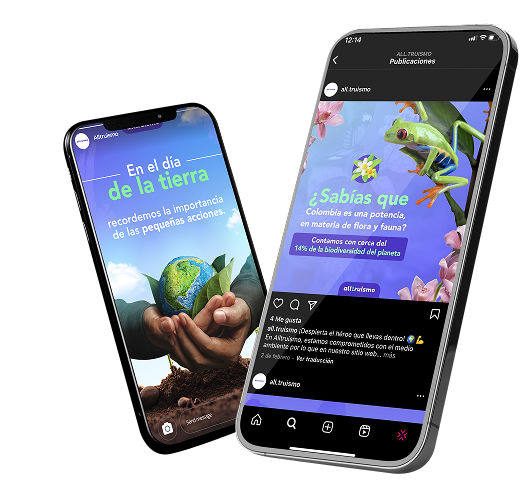
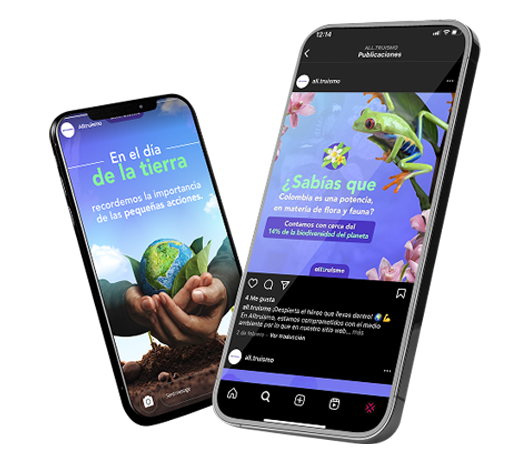
arreglo responsive en el carrusel del home

diff --git a/index.html b/index.html
@@ -70,21 +70,27 @@
 
   <!-- Indicadores -->
   <div class="carousel-indicators">
-    <button type="button" data-bs-target="#miCarrusel" data-bs-slide-to="0" class="active" aria-current="true" aria-label="Slide 1"></button>
-    <button type="button" data-bs-target="#miCarrusel" data-bs-slide-to="1" aria-label="Slide 2"></button>
-    <button type="button" data-bs-target="#miCarrusel" data-bs-slide-to="2" aria-label="Slide 3"></button>
+    <button type="button" data-bs-target="#miCarrusel" data-bs-slide-to="0"
+      class="active" aria-current="true" aria-label="Slide 1"></button>
+    <button type="button" data-bs-target="#miCarrusel" data-bs-slide-to="1"
+      aria-label="Slide 2"></button>
+    <button type="button" data-bs-target="#miCarrusel" data-bs-slide-to="2"
+      aria-label="Slide 3"></button>
   </div>
 
   <!-- Slides -->
   <div class="carousel-inner">
 
-    <!-- SLIDE 1 -->
+    <!-- ================= SLIDE 1 (SIN CAMBIOS) ================= -->
     <div class="carousel-item active">
-      <div id="header" class="container-fluid position-relative d-flex justify-content-center align-items-center">
-        <div class="d-flex flex-column flex-md-row justify-content-center align-items-center w-100 h-100" style="gap: 80px;">
-          
-          <!-- PRESENTACIÓN -->
-          <div id="presentacion" class="text-center d-flex flex-column justify-content-center align-items-center">
+      <div id="header"
+        class="container-fluid position-relative d-flex justify-content-center align-items-center">
+
+        <div class="d-flex flex-column flex-md-row justify-content-center align-items-center w-100 h-100"
+          style="gap: 80px;">
+
+          <div id="presentacion"
+            class="text-center d-flex flex-column justify-content-center align-items-center">
             <h1>Juan Pablo Ortiz</h1>
             <h3>GRAPHIC & WEB DESIGNER</h3>
 
@@ -128,40 +134,33 @@
       </div>
     </div>
 
-    <!-- SLIDE 2 -->
+    <!-- ================= SLIDE 2 (REFERENCIA CORRECTA) ================= -->
     <div class="carousel-item">
-      <div id="header2" class="container-fluid position-relative d-flex justify-content-center align-items-center">
-        <div class="d-flex flex-column flex-md-row justify-content-center align-items-center w-100 h-100" style="gap: 80px;">
-          
-          <!-- PRESENTACIÓN -->
-          <div id="presentacion" class="text-center d-flex flex-column justify-content-center align-items-center">
+      <div id="header2"
+        class="container-fluid position-relative d-flex justify-content-center
+               align-items-start align-items-md-center
+               py-4 py-md-0">
 
-              <h1>Social media</h1>
-              <img src="./assets/pictures/panthera.svg" alt="logo panthera" class="mb-3">
-              <p class="text-white">
-                Panthera es una agencia de diseño que ofrece servicios integrales 
-                en marketing, publicidad, desarrollo web y software.
-              </p>
+        <div class="d-flex flex-column flex-md-row justify-content-center align-items-center w-100 h-100 gap-3 gap-md-5">
+
+          <div id="presentacion"
+            class="text-center d-flex flex-column justify-content-center align-items-center">
+
+            <h1>Social media</h1>
+            <img src="./assets/pictures/panthera.svg" alt="logo panthera" class="mb-3">
+            <p class="text-white">
+              Panthera es una agencia de diseño que ofrece servicios integrales
+              en marketing, publicidad, desarrollo web y software.
+            </p>
 
             <ul id="cont_redes" class="d-flex justify-content-center align-items-center gap-2 mt-2">
-              <li>
-                  <div class="redes">
-                  <h4>Agencia: <strong>Phantera</strong></h4>
-                  </div>
-              </li>
-              <li>
-                  <div class="redes">
-                  <h4>Cliente: <strong>Phantera</strong></h4>
-                  </div>
-              </li>
+              <li><div class="redes"><h4>Agencia: <strong>Phantera</strong></h4></div></li>
+              <li><div class="redes"><h4>Cliente: <strong>Phantera</strong></h4></div></li>
             </ul>
 
-       <!-- BOTÓN CTA -->
-        <a href="./html/a_phantera.html" class="marca"> <h4>ver proyecto</h4></a>
+            <a href="./html/a_phantera.html" class="marca"><h4>ver proyecto</h4></a>
+          </div>
 
-</div>
-
-          <!-- LOGO -->
           <div id="Logo" class="d-flex justify-content-center align-items-center">
             <img src="./assets/pictures/banner_phantera.png" alt="mockup panthera">
           </div>
@@ -170,40 +169,33 @@
       </div>
     </div>
 
-    <!-- SLIDE 3 -->
+    <!-- ================= SLIDE 3 (CLON DEL SLIDE 2) ================= -->
     <div class="carousel-item">
-      <div id="header3" class="container-fluid position-relative d-flex justify-content-center align-items-center">
-        <div class="d-flex flex-column flex-md-row justify-content-center align-items-center w-100 h-100" style="gap: 80px;">
-          
-          <!-- PRESENTACIÓN -->
-          <div id="presentacion" class="text-center d-flex flex-column justify-content-center align-items-center">
+      <div id="header3"
+        class="container-fluid position-relative d-flex justify-content-center
+               align-items-start align-items-md-center
+               py-4 py-md-0">
 
-              <h1>Social media</h1>
-              <img src="./assets/pictures/alltruismo.svg" alt="logo alltruismo" class="mb-3">
-              <p class="text-white">
-                Alltruismo es una plataforma de crowdfunding donde diversas fundaciones 
-          pueden solicitar donaciones al público.
-              </p>
+        <div class="d-flex flex-column flex-md-row justify-content-center align-items-center w-100 h-100 gap-3 gap-md-5">
+
+          <div id="presentacion"
+            class="text-center d-flex flex-column justify-content-center align-items-center">
+
+            <h1>Social media</h1>
+            <img src="./assets/pictures/alltruismo.svg" alt="logo alltruismo" class="mb-3">
+            <p class="text-white">
+              Alltruismo es una plataforma de crowdfunding donde diversas fundaciones
+              pueden solicitar donaciones al público.
+            </p>
 
             <ul id="cont_redes" class="d-flex justify-content-center align-items-center gap-2 mt-2">
-              <li>
-                  <div class="redes">
-                  <h4>Agencia: <strong>Phantera</strong></h4>
-                  </div>
-              </li>
-              <li>
-                  <div class="redes">
-                  <h4>Cliente: <strong>Alltruismo/strong></h4>
-                  </div>
-              </li>
+              <li><div class="redes"><h4>Agencia: <strong>Phantera</strong></h4></div></li>
+              <li><div class="redes"><h4>Cliente: <strong>Alltruismo</strong></h4></div></li>
             </ul>
 
-       <!-- BOTÓN CTA -->
-        <a href="./html/a_alltruismo.html" class="marca"> <h4>ver proyecto</h4></a>
+            <a href="./html/a_alltruismo.html" class="marca"><h4>ver proyecto</h4></a>
+          </div>
 
-</div>
-
-          <!-- LOGO -->
           <div id="Logo" class="d-flex justify-content-center align-items-center">
             <img src="./assets/pictures/banner_alltruismo.png" alt="mockup alltruismo">
           </div>
@@ -215,15 +207,20 @@
   </div>
 
   <!-- Controles -->
-  <button class="carousel-control-prev" type="button" data-bs-target="#miCarrusel" data-bs-slide="prev">
-    <span class="carousel-control-prev-icon" aria-hidden="true"></span>
+  <button class="carousel-control-prev" type="button"
+    data-bs-target="#miCarrusel" data-bs-slide="prev">
+    <span class="carousel-control-prev-icon"></span>
     <span class="visually-hidden">Anterior</span>
   </button>
-  <button class="carousel-control-next" type="button" data-bs-target="#miCarrusel" data-bs-slide="next">
-    <span class="carousel-control-next-icon" aria-hidden="true"></span>
+
+  <button class="carousel-control-next" type="button"
+    data-bs-target="#miCarrusel" data-bs-slide="next">
+    <span class="carousel-control-next-icon"></span>
     <span class="visually-hidden">Siguiente</span>
   </button>
+
 </div>
+
 
 <!--                     Marcas                       -->   
 

diff --git a/CSS/index.css b/CSS/index.css
@@ -197,8 +197,30 @@ p{
 
 @media (max-width: 768px) {
     #header {
-        padding-top: 150px
+        padding-top: 80px;
     }
+}
+
+@media (max-width: 768px) {
+    #header2 {
+        padding-top: 150px;
+    }
+}
+
+@media (max-width: 768px) {
+    #header3 {
+        padding-top: 150px;
+    }
+}
+
+@media (max-width: 767.98px) {
+
+  #header3 #Logo img {
+    max-width: 430px;
+    width: 100%;
+    height: auto;
+  }
+
 }
 
 #presentacion {
